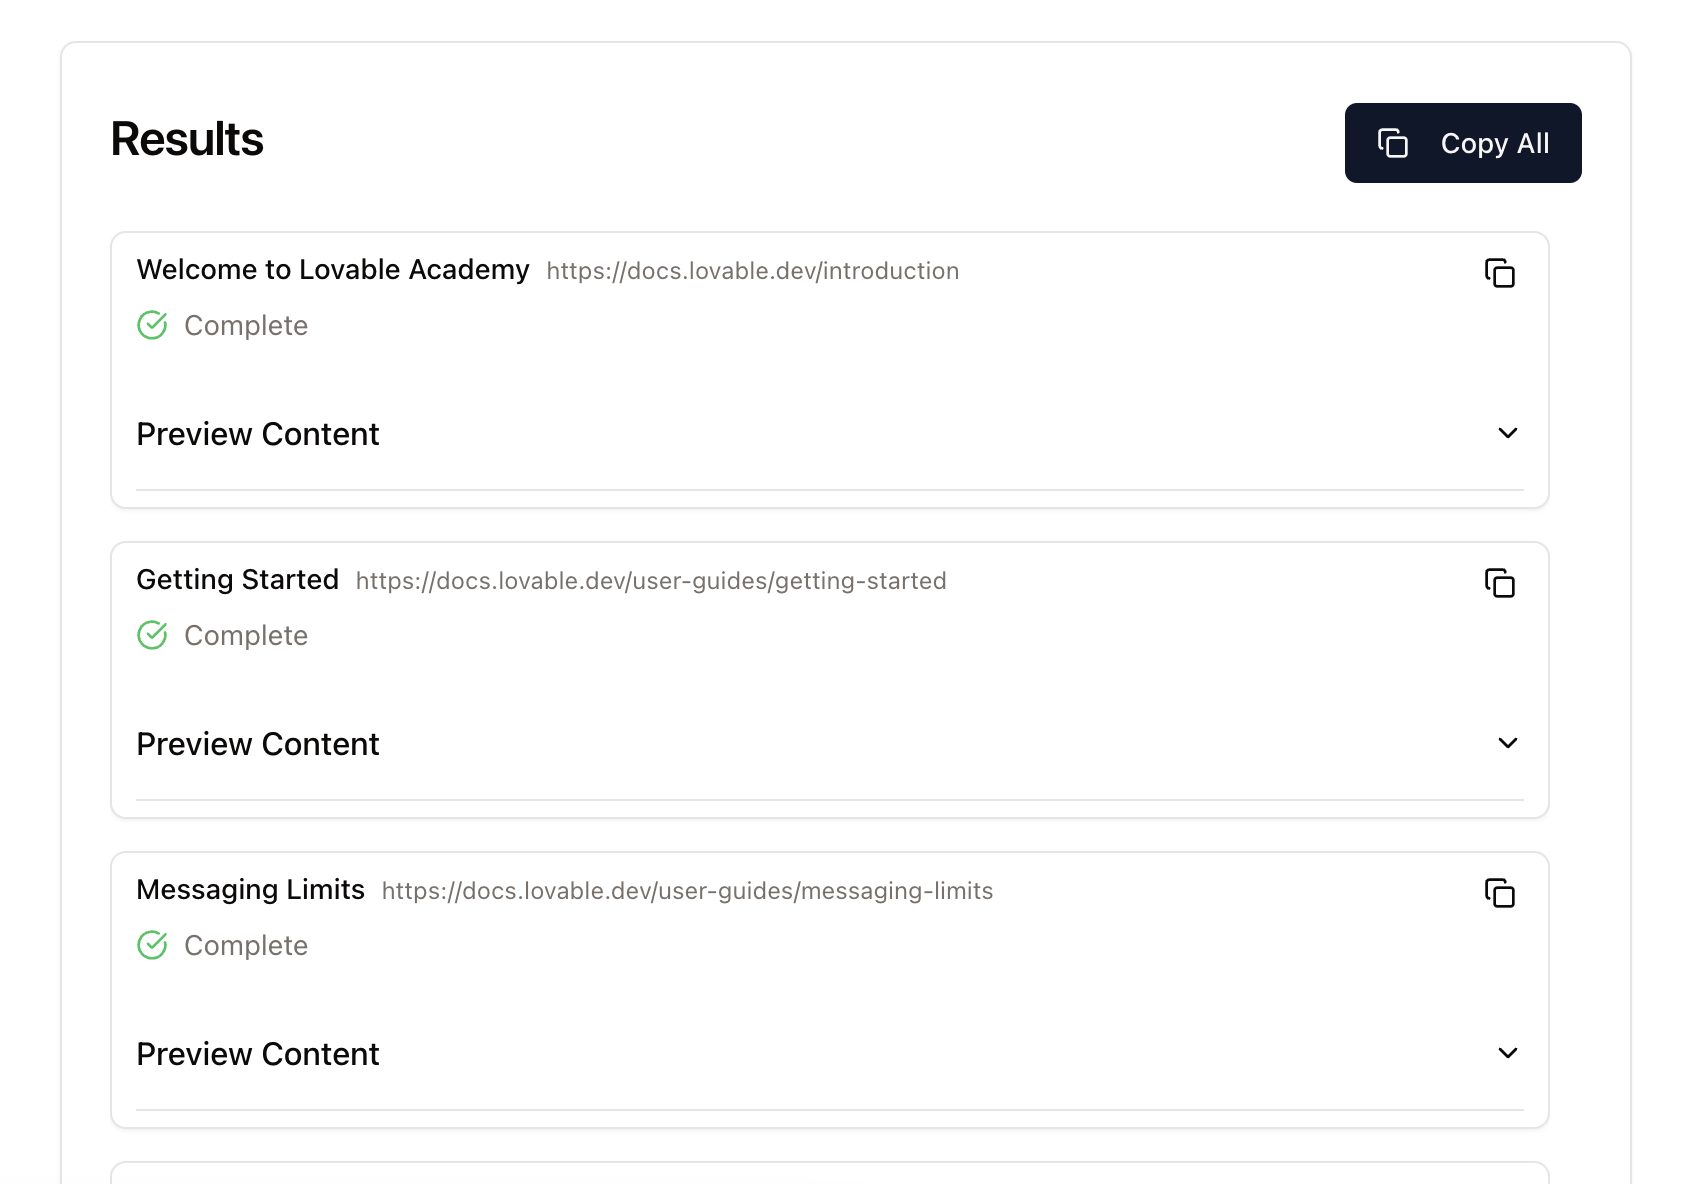
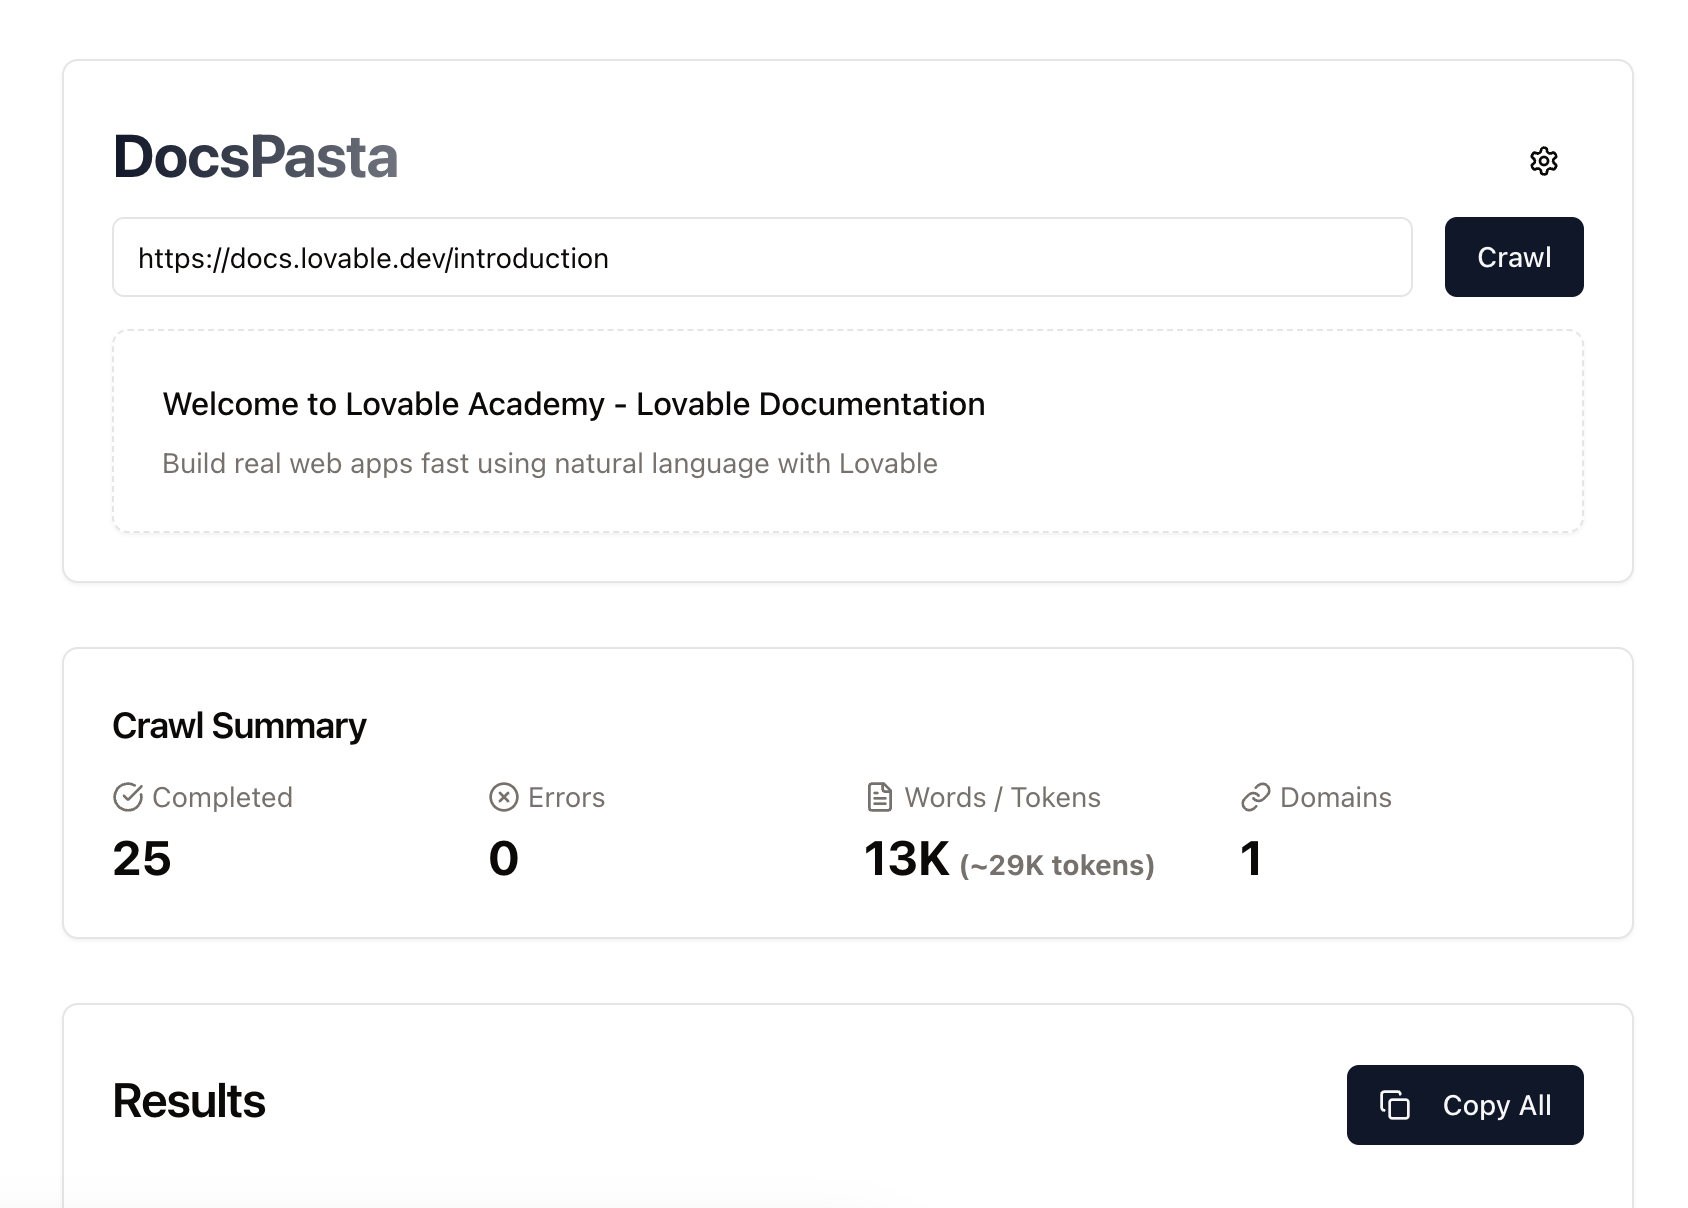
Agent query: Can you try crawling a site again? The results list should now be much more compact and similar to the reference image. How does it look?
Improve ResultsList UI and copy functionality; remove unnecessary header/footer from copied content.

Screenshot: https://storage.googleapis.com/screenshot-production-us-central1/97c9ccaa-188d-456b-9271-3a116f05263e/610f42e6-09e9-4ce4-9b94-eb5fd83f9bf8.jpg

diff --git a/client/src/components/ui/results-list.tsx b/client/src/components/ui/results-list.tsx
@@ -47,21 +47,11 @@ export default function ResultsList({ results }: ResultsListProps) {
   const handleCopyAll = async () => {
     try {
       setCopying("all");
-      const allContent = `================================================================
-Documentation Collection
-================================================================
-Total Pages: ${results.filter(r => r.status === "complete").length}
-Timestamp: ${new Date().toISOString()}
-Source: docspasta crawler
-
-${results
-  .filter(r => r.status === "complete")
-  .map(r => r.content)
-  .join("\n\n")}
-
-================================================================
-End of Documentation
-================================================================`;
+      const allContent = results
+        .filter(r => r.status === "complete")
+        .map(r => r.content)
+        .join("\n\n");
+      
       await navigator.clipboard.writeText(allContent);
       toast({
         title: "Copied All",
@@ -80,7 +70,7 @@ End of Documentation
 
   return (
     <Card>
-      <CardHeader className="flex flex-row items-center justify-between">
+      <CardHeader className="flex flex-row items-center justify-between pb-2">
         <CardTitle>Results</CardTitle>
         <Button
           onClick={handleCopyAll}
@@ -96,55 +86,55 @@ End of Documentation
       </CardHeader>
       <CardContent>
         <ScrollArea className="h-[500px] pr-4">
-          <div className="space-y-1">
-            {results.map((result) => (
-              <>
-                <div key={result.url} className="group flex items-center gap-2 py-1.5 px-2 hover:bg-muted/50 rounded-sm">
-                  <div className="flex-none w-5">
+          <div>
+            {results.map((result, index) => (
+              <div key={result.url}>
+                <div className="group flex items-center py-1 hover:bg-muted/50 rounded-sm">
+                  {/* Status Icon */}
+                  <div className="flex-none w-4 ml-1">
                     {result.status === "processing" && (
-                      <Loader2 className="h-4 w-4 animate-spin text-muted-foreground" />
+                      <Loader2 className="h-3 w-3 animate-spin text-muted-foreground" />
                     )}
                     {result.status === "complete" && (
-                      <CheckCircle className="h-4 w-4 text-green-500" />
+                      <CheckCircle className="h-3 w-3 text-green-500" />
                     )}
                     {result.status === "error" && (
-                      <XCircle className="h-4 w-4 text-destructive" />
+                      <XCircle className="h-3 w-3 text-destructive" />
                     )}
                   </div>
                   
-                  <div className="flex-1 min-w-0 flex items-baseline gap-2">
-                    <h3 className="font-medium truncate text-sm">
-                      {result.title}
-                    </h3>
-                    <span className="text-xs text-muted-foreground truncate">
-                      {result.url}
-                    </span>
-                    {result.status === "error" && (
-                      <span className="text-xs text-destructive">
-                        {result.error || "Error processing page"}
+                  {/* Title and URL */}
+                  <div className="flex-1 min-w-0 ml-2">
+                    <div className="flex items-baseline gap-2 truncate">
+                      <span className="font-medium text-sm truncate">
+                        {result.title}
                       </span>
-                    )}
+                      <span className="text-xs text-muted-foreground truncate">
+                        {result.url}
+                      </span>
+                    </div>
                   </div>
 
+                  {/* Actions */}
                   {result.status === "complete" && (
-                    <div className="flex-none opacity-0 group-hover:opacity-100 transition-opacity">
+                    <div className="flex-none opacity-0 group-hover:opacity-100 transition-opacity mr-1">
                       <Button
                         size="sm"
                         variant="ghost"
-                        className="h-7 w-7 p-0"
+                        className="h-6 w-6 p-0"
                         onClick={() => handleCopy(result.content, result.url)}
                         disabled={copying !== null}
                       >
                         {copying === result.url ? (
-                          <Loader2 className="h-4 w-4 animate-spin" />
+                          <Loader2 className="h-3 w-3 animate-spin" />
                         ) : (
-                          <Copy className="h-4 w-4" />
+                          <Copy className="h-3 w-3" />
                         )}
                       </Button>
                       <Button
                         size="sm"
                         variant="ghost"
-                        className="h-7 w-7 p-0"
+                        className="h-6 w-6 p-0"
                         onClick={() => {
                           const el = document.querySelector(`[data-accordion-id="${result.url}"]`);
                           if (el) {
@@ -152,29 +142,30 @@ End of Documentation
                           }
                         }}
                       >
-                        <ChevronDown className="h-4 w-4" />
+                        <ChevronDown className="h-3 w-3" />
                       </Button>
                     </div>
                   )}
                 </div>
 
+                {/* Preview Content */}
                 {result.status === "complete" && (
-                  <Accordion type="single" collapsible className="px-2">
+                  <Accordion type="single" collapsible>
                     <AccordionItem value="preview" data-accordion-id={result.url}>
-                      <AccordionTrigger className="py-2">
+                      <AccordionTrigger className="py-1 px-2 text-xs">
                         Preview Content
                       </AccordionTrigger>
                       <AccordionContent>
-                        <ScrollArea className="h-[400px]">
-                          <pre className="text-sm bg-muted p-4 rounded-md overflow-x-auto whitespace-pre-wrap">
+                        <div className="px-2">
+                          <pre className="text-xs bg-muted p-3 rounded-md overflow-x-auto whitespace-pre-wrap">
                             <code>{result.content}</code>
                           </pre>
-                        </ScrollArea>
+                        </div>
                       </AccordionContent>
                     </AccordionItem>
                   </Accordion>
                 )}
-              </>
+              </div>
             ))}
           </div>
         </ScrollArea>
